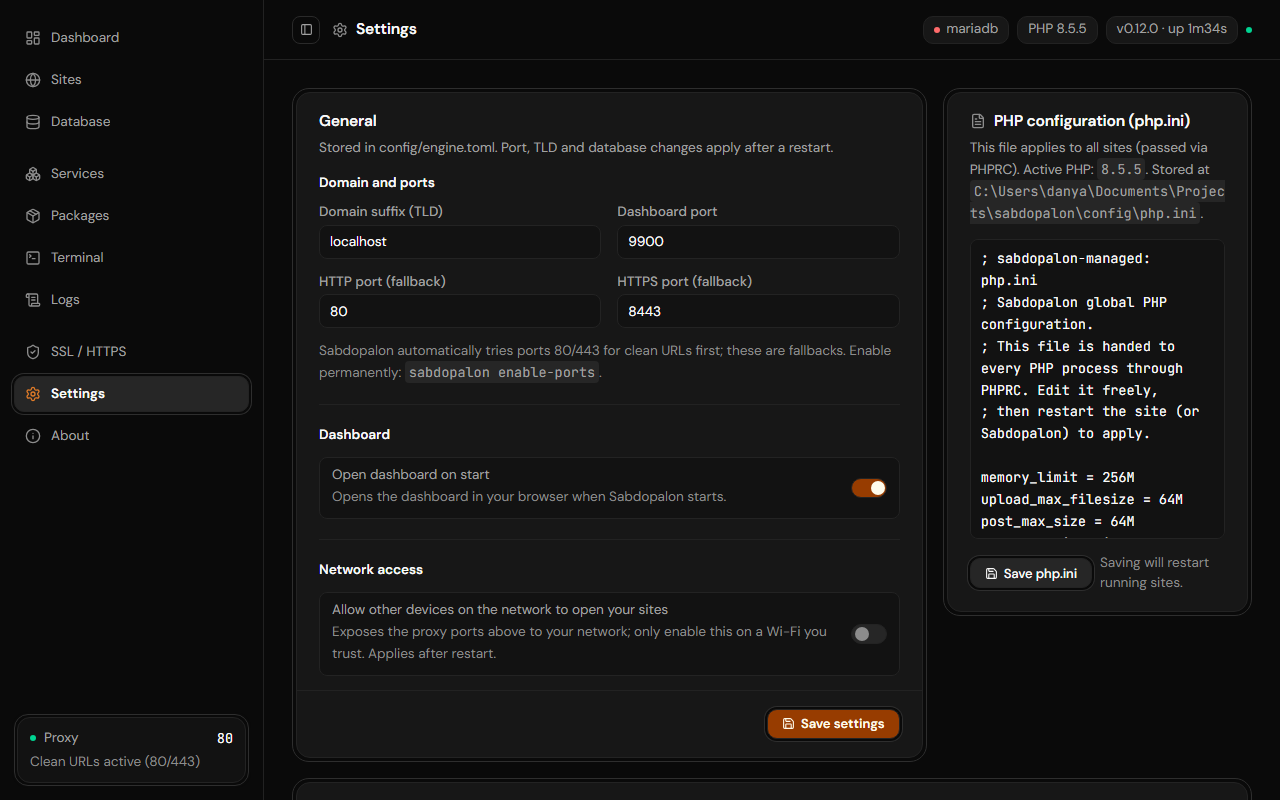
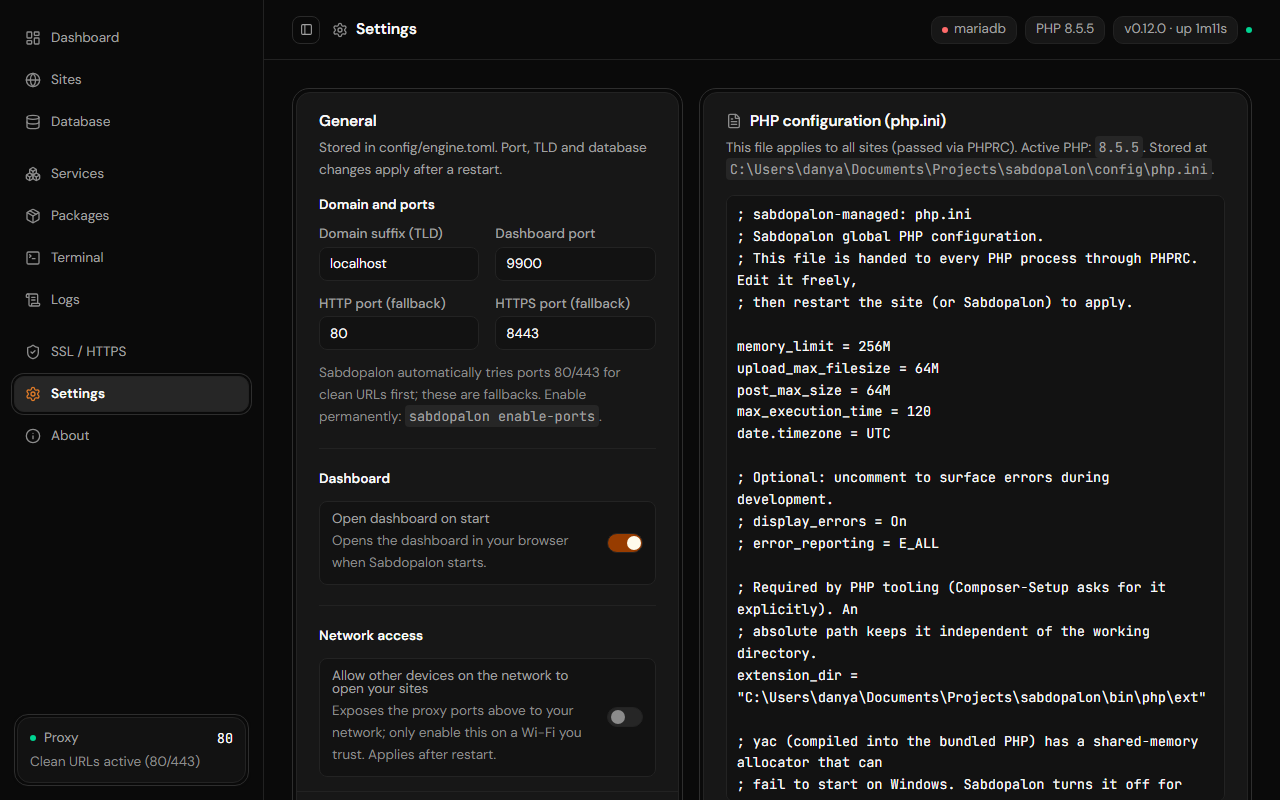
ui(settings): php.ini is the widest card now, and the two cards match height
The bento had the code card in the narrow column, which is where a
file of php.ini belongs least: every long line wrapped and the card
came out shorter than the one beside it. General takes five columns,
php.ini takes seven, and Profiles runs the full width below.

The two cards of the first row now share one height - the grid
stretches them and the editor grows into the space instead of leaving
the card short.

diff --git a/internal/dashboard/ui/src/pages/settings.tsx b/internal/dashboard/ui/src/pages/settings.tsx
@@ -85,8 +85,8 @@ export default function SettingsPage() {
         itself. One card with the button in its footer is what the code does.
       */}
       
-      <div className="grid grid-cols-1 items-start gap-4 @4xl/main:grid-cols-3">
-        <Card className="min-w-0 @4xl/main:col-span-2">
+      <div className="grid grid-cols-1 gap-4 @4xl/main:grid-cols-12">
+        <Card className="min-w-0 @4xl/main:col-span-5">
         <CardHeader>
           <CardTitle>General</CardTitle>
           <CardDescription>
@@ -184,7 +184,7 @@ export default function SettingsPage() {
         </CardFooter>
       </Card>
 
-      <Card className="min-w-0">
+      <Card className="min-w-0 @4xl/main:col-span-7">
         <CardHeader>
           <CardTitle className="flex items-center gap-2">
             <FileText className="size-4 text-text-muted" /> PHP configuration (php.ini)
@@ -196,14 +196,16 @@ export default function SettingsPage() {
             )}
             Stored at <code className="break-all rounded bg-surface-raised px-1 py-0.5 font-mono text-[13.5px] text-text-secondary">{ini?.path ?? "config/php.ini"}</code>.
           </CardDescription>
+        </CardHeader>
+        <CardContent className="flex flex-1 flex-col gap-2">
           <Textarea
-            className="mt-2 min-h-[300px] font-mono text-[13.5px] leading-relaxed"
+            className="min-h-[300px] flex-1 font-mono text-[13.5px] leading-relaxed"
             value={iniContent}
             onChange={(e) => setIniContent(e.target.value)}
             spellCheck={false}
             placeholder="memory_limit = 256M&#10;upload_max_filesize = 64M&#10;..."
           />
-          <div className="mt-2 flex items-center gap-2">
+          <div className="flex items-center gap-2">
             <Button className="w-fit" variant="outline" onClick={savePhpIni} disabled={savingIni}>
               <Save /> Save php.ini
             </Button>
@@ -211,11 +213,11 @@ export default function SettingsPage() {
               Saving will restart running sites.
             </span>
           </div>
-        </CardHeader>
+        </CardContent>
       </Card>
 
 
-      <Card className="min-w-0 @4xl/main:col-span-3">
+      <Card className="min-w-0 @4xl/main:col-span-12">
         <CardHeader>
           <CardTitle>Profiles</CardTitle>
           <CardDescription>

diff --git a/docs/ui-revamp-plan.md b/docs/ui-revamp-plan.md
@@ -1054,3 +1054,16 @@ Label **MANAGE / TOOLS / SYSTEM** dihapus. Tiga label kecil itu memecah daftar
 sembilan halaman jadi tiga daftar pendek tanpa menambah informasi apa pun —
 halaman yang tersedia sudah diketahui, dan jaraknya antar kelompok tetap terasa.
 Sidebar sekarang satu daftar bersih, dengan jarak antar kelompok yang lebih longgar.
+
+### 7. Bento Settings: php.ini jadi kartu terlebar
+
+Susunan Settings 최종:
+
+```
+[ General (5/12) ][ PHP configuration php.ini (7/12) ]
+[ Profiles (12/12)                                   ]
+```
+
+Kartu php.ini yang paling lebar (kodenya butuh ruang — versi窄 = 12/24 dan
+baris panjang membungkus), dan **tinggi kartu General = tinggi kartu php.ini**
+(grid `items-stretch`, editor php.ini `flex-1` sehingga keypadnya ikut meregang).
